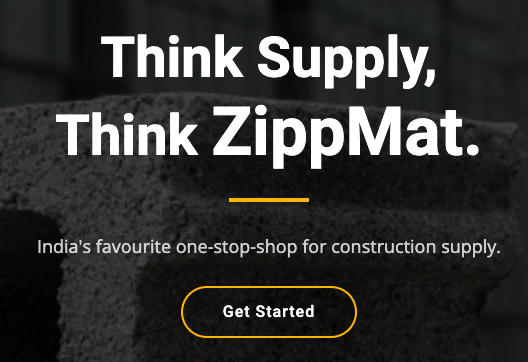
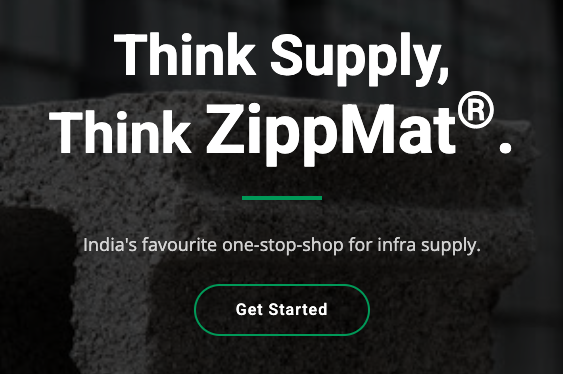
primary color change to green

diff --git a/customer-tnc.html b/customer-tnc.html
@@ -1000,10 +1000,8 @@
                   <img
                     src="assets/img/logo.png"
                     alt=""
-                    style="width: 140px"
+                    style="width: 250px"
                   />
-                  <h3>ZippMat<sup>&reg;</sup></h3>
-                  <span>ISO 9001: 2015 Certified Company</span>
                 </div>
               </div>
             </div>

diff --git a/products-industrial.html b/products-industrial.html
@@ -1176,10 +1176,8 @@
                   <img
                     src="assets/img/logo.png"
                     alt=""
-                    style="width: 140px"
+                    style="width: 250px"
                   />
-                  <h3>ZippMat<sup>&reg;</sup></h3>
-                  <span>ISO 9001: 2015 Certified Company</span>
                 </div>
               </div>
             </div>

diff --git a/about.html b/about.html
@@ -636,10 +636,8 @@
                   <img
                     src="assets/img/logo.png"
                     alt=""
-                    style="width: 140px"
+                    style="width: 250px"
                   />
-                  <h3>ZippMat<sup>&reg;</sup></h3>
-                  <span>ISO 9001: 2015 Certified Company</span>
                 </div>
               </div>
             </div>

diff --git a/careers.html b/careers.html
@@ -366,10 +366,8 @@
                   <img
                     src="assets/img/logo.png"
                     alt=""
-                    style="width: 140px"
+                    style="width: 250px"
                   />
-                  <h3>ZippMat<sup>&reg;</sup></h3>
-                  <span>ISO 9001: 2015 Certified Company</span>
                 </div>
               </div>
             </div>

diff --git a/contact.html b/contact.html
@@ -359,10 +359,8 @@
                   <img
                     src="assets/img/logo.png"
                     alt=""
-                    style="width: 140px"
+                    style="width: 250px"
                   />
-                  <h3>ZippMat<sup>&reg;</sup></h3>
-                  <span>ISO 9001: 2015 Certified Company</span>
                 </div>
               </div>
             </div>

diff --git a/ekoblend.html b/ekoblend.html
@@ -675,10 +675,8 @@
                   <img
                     src="assets/img/logo.png"
                     alt=""
-                    style="width: 140px"
+                    style="width: 250px"
                   />
-                  <h3>ZippMat<sup>&reg;</sup></h3>
-                  <span>ISO 9001: 2015 Certified Company</span>
                 </div>
               </div>
             </div>

diff --git a/index.html b/index.html
@@ -800,10 +800,8 @@
                   <img
                     src="assets/img/logo.png"
                     alt=""
-                    style="width: 140px"
+                    style="width: 250px"
                   />
-                  <h3>ZippMat<sup>&reg;</sup></h3>
-                  <span>ISO 9001: 2015 Certified Company</span>
                 </div>
               </div>
             </div>

diff --git a/privacy-policy.html b/privacy-policy.html
@@ -587,10 +587,8 @@
                   <img
                     src="assets/img/logo.png"
                     alt=""
-                    style="width: 140px"
+                    style="width: 250px"
                   />
-                  <h3>ZippMat<sup>&reg;</sup></h3>
-                  <span>ISO 9001: 2015 Certified Company</span>
                 </div>
               </div>
             </div>

diff --git a/products.html b/products.html
@@ -691,10 +691,8 @@
                   <img
                     src="assets/img/logo.png"
                     alt=""
-                    style="width: 140px"
+                    style="width: 250px"
                   />
-                  <h3>ZippMat<sup>&reg;</sup></h3>
-                  <span>ISO 9001: 2015 Certified Company</span>
                 </div>
               </div>
             </div>

diff --git a/terms.html b/terms.html
@@ -884,10 +884,8 @@
                   <img
                     src="assets/img/logo.png"
                     alt=""
-                    style="width: 140px"
+                    style="width: 250px"
                   />
-                  <h3>ZippMat<sup>&reg;</sup></h3>
-                  <span>ISO 9001: 2015 Certified Company</span>
                 </div>
               </div>
             </div>

diff --git a/assets/css/main.css b/assets/css/main.css
@@ -20,7 +20,7 @@
 /* Colors */
 :root {
   --color-default: #364d59;
-  --color-primary: #feb900;
+  --color-primary: #009954;
   --color-secondary: #52565e;
 }
 
